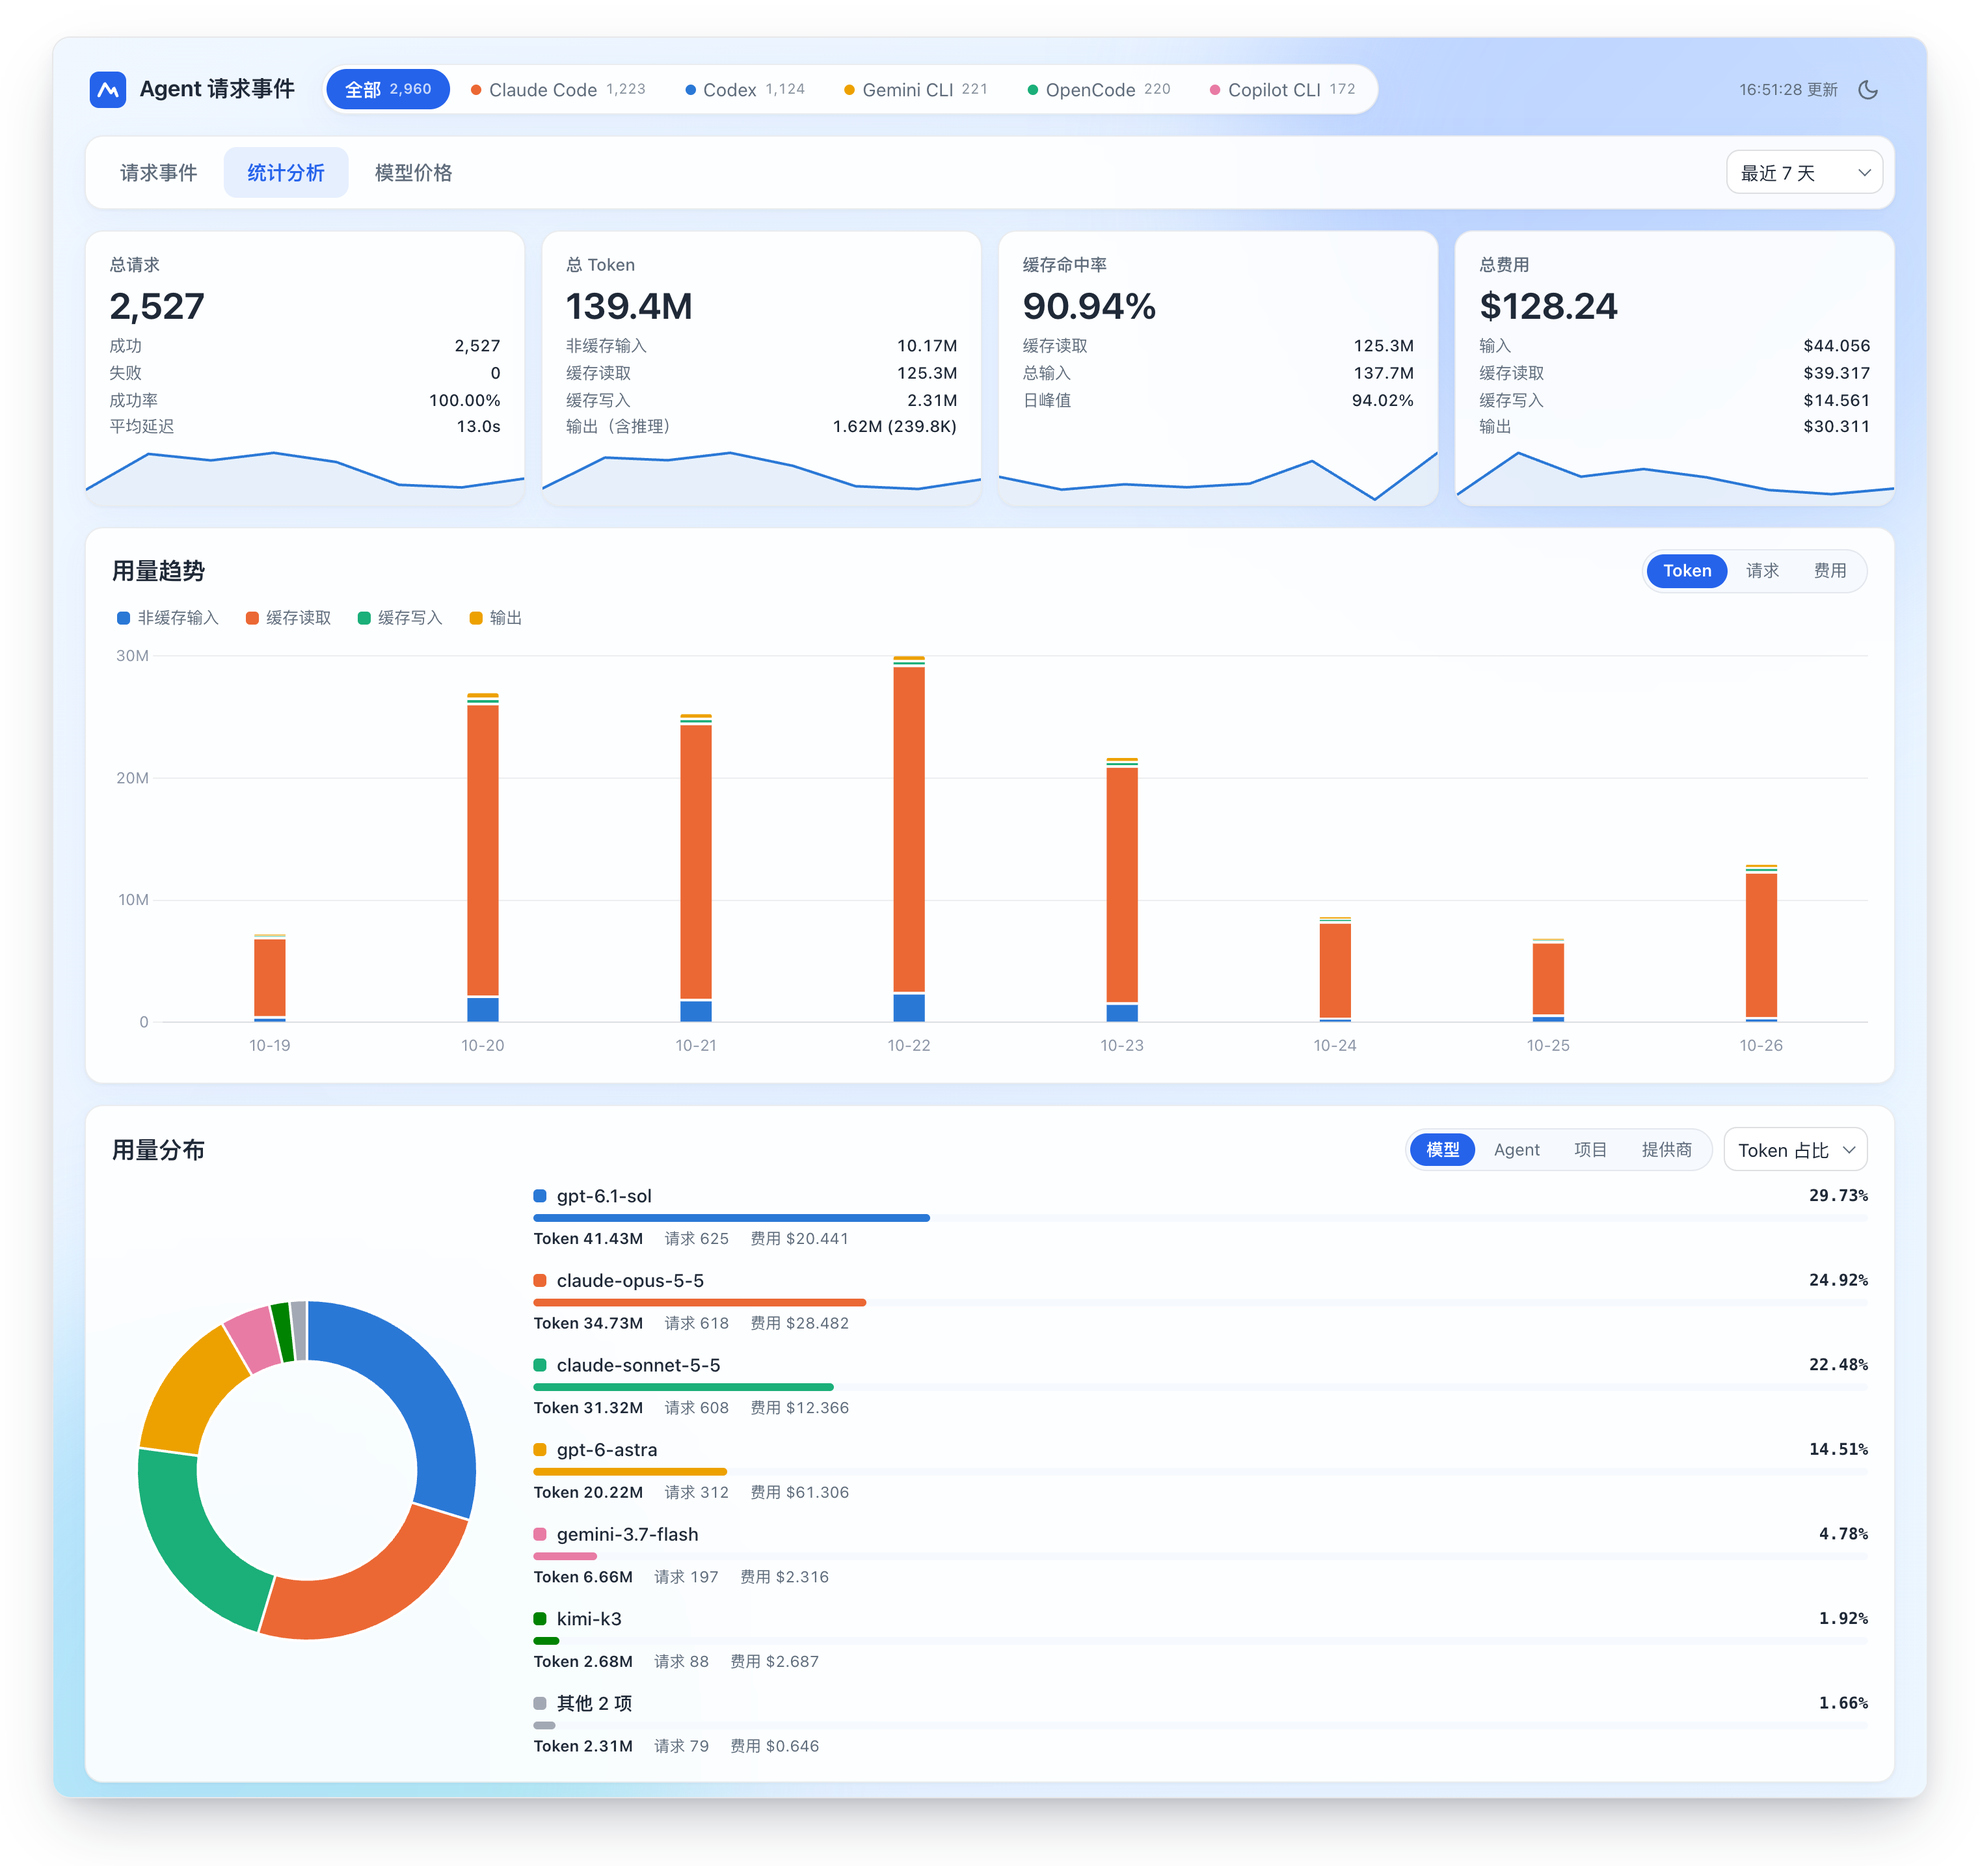
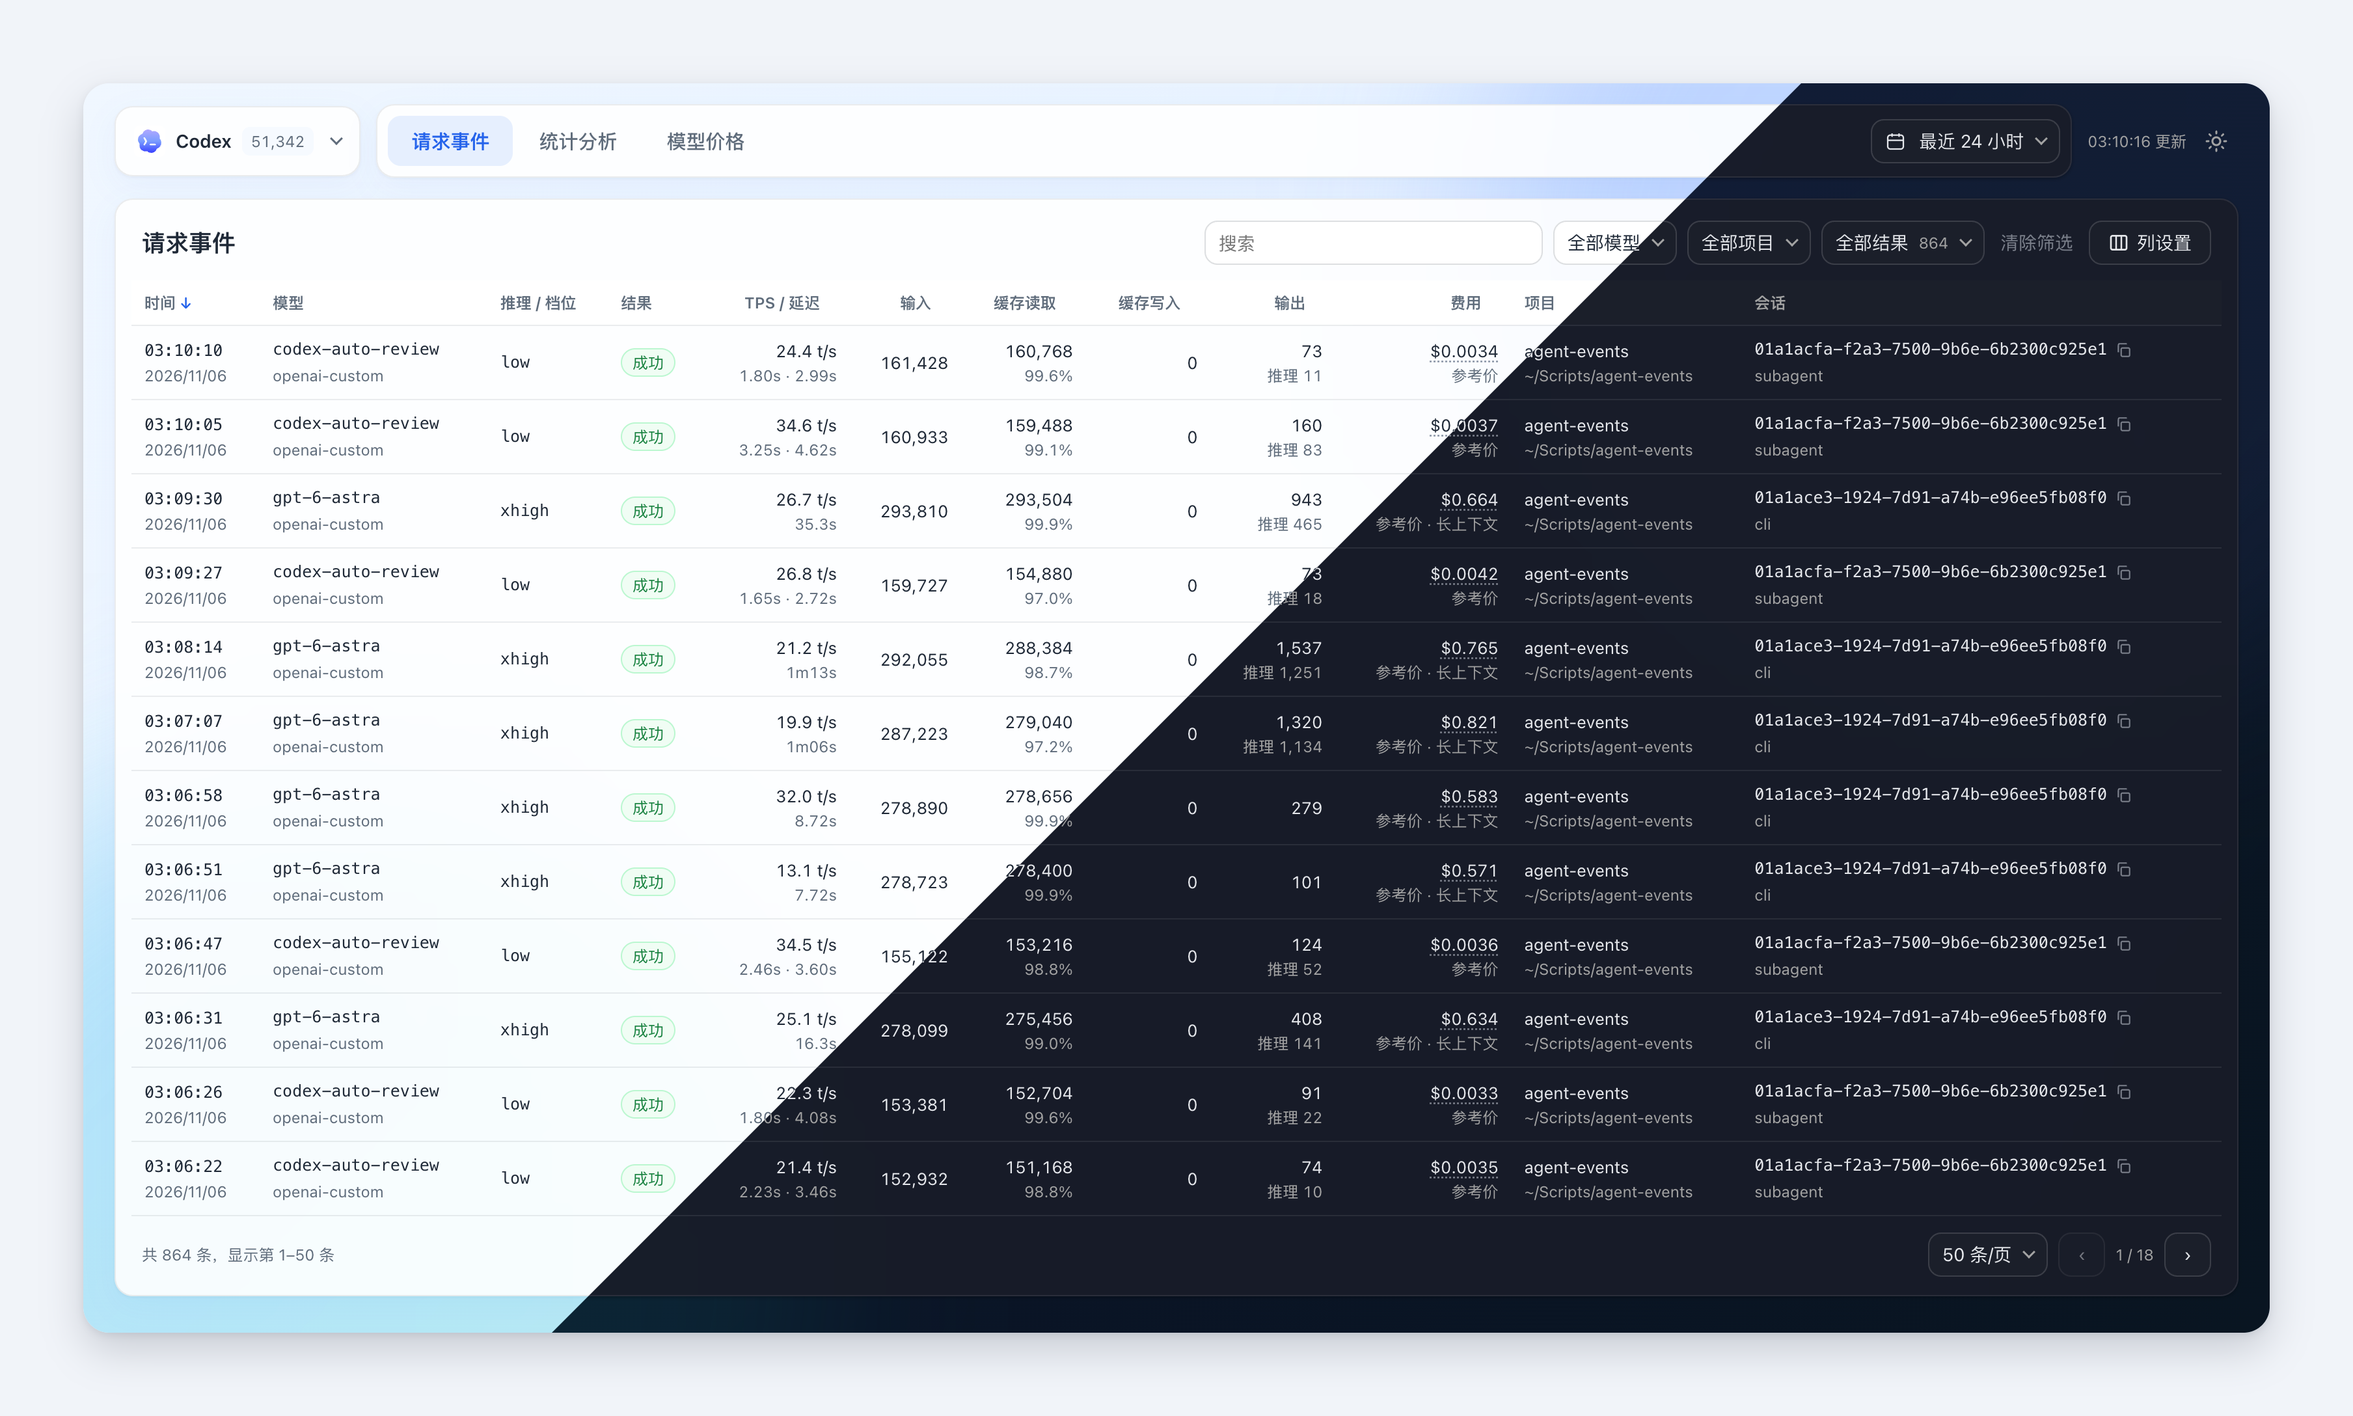
docs: refresh README screenshot

diff --git a/README.md b/README.md
@@ -2,7 +2,7 @@
 
 在浏览器中查看本机 AI 编程助手的每一次模型请求：Token 用量、费用、速度和失败原因。
 
-![agent-events 统计分析页面](docs/images/screenshot.png)
+![Codex 最近 24 小时的请求事件，浅色与深色主题](docs/images/screenshot.png)
 
 支持 Claude Code、Codex、OpenCode、Kilo Code、Antigravity、Gemini CLI、Qwen Code、GitHub Copilot CLI、Amp、Codebuff、Factory Droid、Goose、Grok Build、Hermes、Kimi、OpenClaw、Pi 和 ZCode。只读取本机日志，请求数据不会上传。
 
